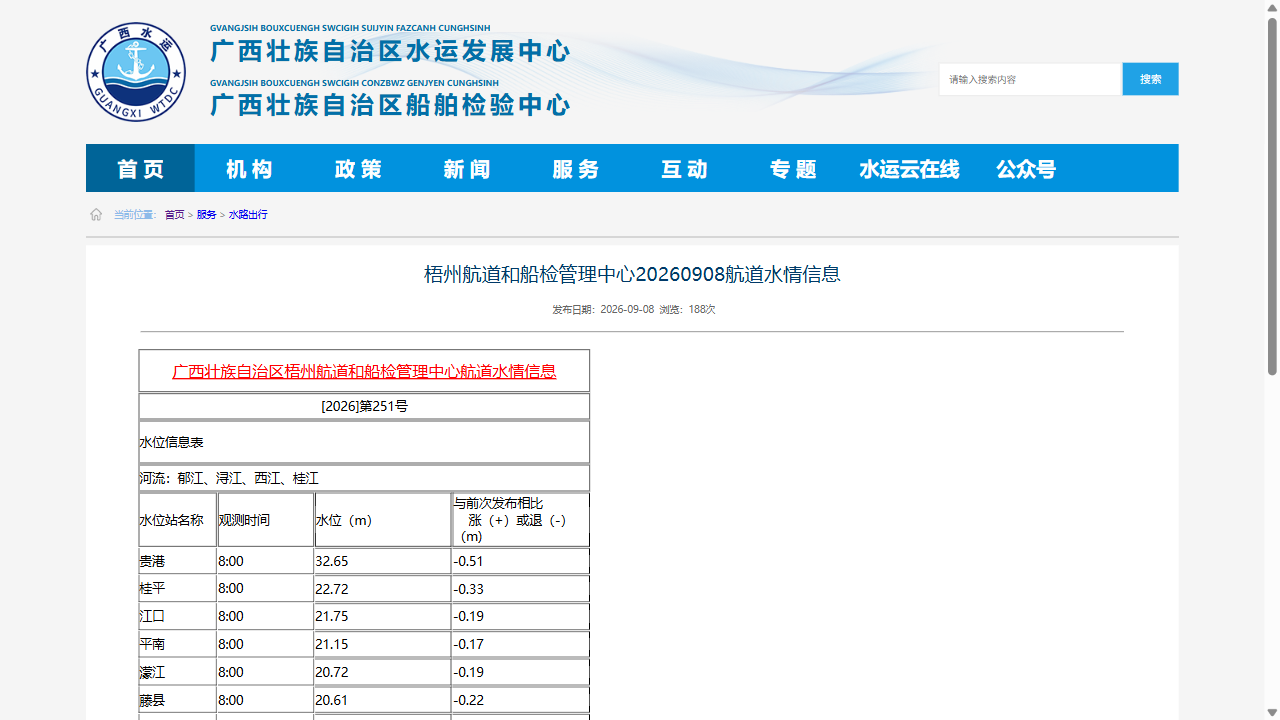
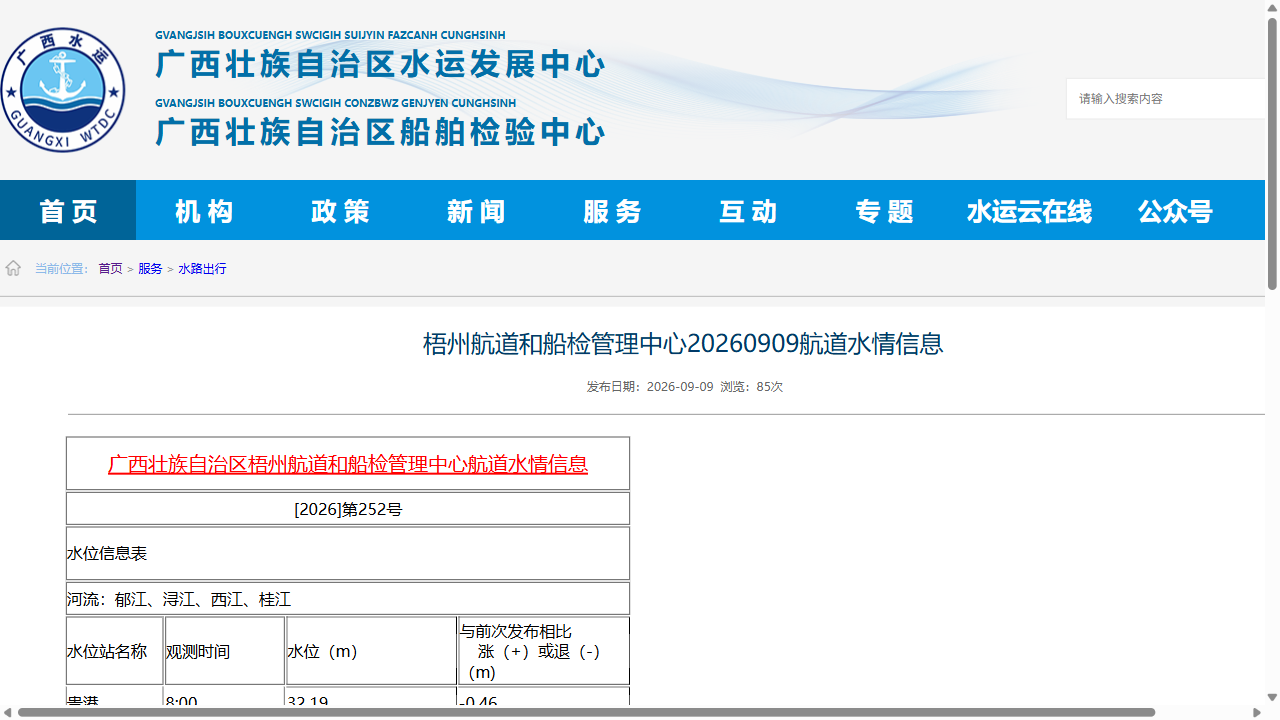
完善枢纽预警信息与警告标识显示 V1.0

diff --git a/water_level_report.html b/water_level_report.html
@@ -168,20 +168,20 @@
         <div class="status-section">
             <div class="status-item">
                 <span class="status-label">上游整体情况：</span>
-                <span class="status-value status-blue">
-                    水位略微下降↘
+                <span class="status-value status-red">
+                    水位略微上升↗↘
                 </span>
             </div>
             <div class="status-item">
                 <span class="status-label">今日梧州水位：</span>
-                <span class="status-value status-red">
-                    5.86m▲
+                <span class="status-value status-blue">
+                    5.54m▼
                 </span>
             </div>
             <div class="status-item">
                 <span class="status-label">近2天梧州水位预报：</span>
                 <span class="status-value status-blue">
-                    5.46m~5.11m 预计水位略微下降↘  
+                    5.33m~5.14m 预计水位略微下降↘  
                 </span>
             </div>
         </div>
@@ -189,7 +189,7 @@
             <div class="status-item">
                 <span class="status-label">🚨水库预警：</span>
                 <span class="warningStatus-value">
-                     大藤峡枢纽、桂平枢纽、长洲枢纽出库流量更大，可能正在放水。请及时注意水位变化，加强船舶调度！
+                     长洲枢纽出库流量更大，可能正在放水。请及时注意水位变化，加强船舶调度！
                 </span>
             </div>
             <div class="status-item">
@@ -201,27 +201,30 @@
         </div>
         
         <div class="image-section">
-            <div class="image-overlay-text wz status-red">5.86m▲</div>
-            <div class="image-overlay-text status-red" style="position: absolute;top: 41.25%;left: 86.7%;">====</div>
-            <div class="image-overlay-text jk status-blue">21.75m▼</div>
+            <div class="image-overlay-text wz status-blue">5.54m▼</div>
+            <div class="image-overlay-text status-blue" style="position: absolute;top: 41.25%;left: 86.7%;">====</div>
+            <div class="image-overlay-text jk status-blue">21.39m▼</div>
             <div class="image-overlay-text status-blue" style="position: absolute; top: 41.4%; left: 64%;">==</div>
-            <div class="image-overlay-text wx status-blue">59.38m▼</div>
-            <div class="image-overlay-text status-blue" style="position: absolute; top: 18.9%; left: 23.2%;">===========</div>
-            <div class="image-overlay-text lb status-blue">59.72m▼</div>
+            <div class="image-overlay-text wx status-red">59.48m▲</div>
+            <div class="image-overlay-text status-red" style="position: absolute; top: 18.9%; left: 23.2%;">===========</div>
+            <div class="image-overlay-text lb status-blue">59.59m▼</div>
             <div class="image-overlay-text status-blue" style="position: absolute; top: 18.9%; left: 4%;">===</div>
-            <div class="image-overlay-text lc status-blue">61.896m▼</div>
-            <div class="image-overlay-text status-blue" style="position: absolute; top: 63.8%; left: 6%;">====</div>
-            <div class="image-overlay-text gg status-blue">32.65m▼</div>
+            <div class="image-overlay-text lc status-red">62.133m▲</div>
+            <div class="image-overlay-text status-red" style="position: absolute; top: 63.8%; left: 6%;">====</div>
+            <div class="image-overlay-text gg status-blue">32.19m▼</div>
             <div class="image-overlay-text status-blue" style="position: absolute; top: 63.8%; left: 28.5%;">============</div>
             <div class="image-overlay-text" style="position: absolute; top: 42.5%; left: 86.5%;font-size:200%"> </div>
             <div class="image-overlay-text" style="position: absolute; top: 42.5%; left: 69.67%;font-size:200%"> </div>
             <div class="image-overlay-text" style="position: absolute; top: 20%; left: 37.9%;font-size:200%"> </div>
-            <div class="image-overlay-text" style="position: absolute;top: 20%;left: 8.6%;font-size:200%"> </div>
+            <div class="image-overlay-text" style="position: absolute; top: 20%; left: 8.6%;font-size:200%"> </div>
             <div class="image-overlay-text" style="position: absolute; top: 65%; left: 12%;font-size:200%"> </div>
             <div class="image-overlay-text" style="position: absolute; top: 65%; left: 45%;font-size:200%"> </div>
-            <div class="image-overlay-text" style="position: absolute; top: 42.5%; left: 86.5%;font-size:200%">🌊</div>
-            <div class="image-overlay-text" style="position: absolute; top: 42.5%; left: 69.67%;font-size:200%">🌊</div>
-            <div class="image-overlay-text" style="position: absolute;top: 43%;left: 79%;font-size: 180%;">🌊</div>
+            <div class="image-overlay-text" style="position: absolute;top: 17%;left: 53.75%;font-size: 180%;writing-mode: vertical-rl;text-orientation: mixed;justify-content: center;align-items: center;display: flex;height: 20%;color:blue"> 正常</div>
+            <div class="image-overlay-text" style="position: absolute; top: 59.9%;left: 56.1%;font-size: 180%;writing-mode: vertical-rl;text-orientation: mixed;justify-content: center;align-items: center;display: flex;height: 20%;color:blue"> 正常</div>
+            <div class="image-overlay-text" style="position: absolute; top: 39%; left: 79%;font-size: 180%;writing-mode: vertical-rl;text-orientation: mixed;justify-content: center;align-items: center;display: flex; height: 20%;color:blue"> 🌊</div>
+            <div class="image-overlay-text status-blue" style="position: absolute;top: -0.5%;left: 53.8%;font-size: 180%;">59.51m</div>
+            <div class="image-overlay-text status-blue" style="position: absolute;top: 88%;left: 56%;font-size: 180%;">31.13m</div>
+            <div class="image-overlay-text status-blue" style="position: absolute;top: 3%;left: 79%;font-size: 180%;">19.46m</div>
             <img src="river.jpg" alt="西江流域图">
         </div>
         
@@ -321,13 +324,23 @@
                         <td>61.896▼</td>
                     </tr>
 
+                    <tr>
+                        <td>2026-09-09 8:00</td>
+                        <td>5.54▼</td>
+                        <td>21.39▼</td>
+                        <td>32.19▼</td>
+                        <td>59.48▲</td>
+                        <td>59.59▼</td>
+                        <td>62.133▲</td>
+                    </tr>
+
                 </tbody>
             </table>
         </div>
         
         <div class="timestamp">
-            报告生成时间: 2026-09-08 17:16:30<br>
-            数据记录数: 8 条
+            报告生成时间: 2026-09-09 10:18:59<br>
+            数据记录数: 9 条
         </div>
     </div>
     
@@ -336,11 +349,11 @@
         new Chart(ctx, {
             type: 'line',
             data: {
-                labels: ["2026-08-31 8:00", "2026-09-01 8:00", "2026-09-02 8:00", "2026-09-03 8:00", "2026-09-04 8:00", "2026-09-06 8:00", "2026-09-07 8:00", "2026-09-08 8:00"],
+                labels: ["2026-08-31 8:00", "2026-09-01 8:00", "2026-09-02 8:00", "2026-09-03 8:00", "2026-09-04 8:00", "2026-09-06 8:00", "2026-09-07 8:00", "2026-09-08 8:00", "2026-09-09 8:00"],
                 datasets: [
                 {
                     label: '梧州',
-                    data: [12.81, 12.72, 11.36, 8.12, 5.42, 6.21, 5.69, 5.86],
+                    data: [12.81, 12.72, 11.36, 8.12, 5.42, 6.21, 5.69, 5.86, 5.54],
                     borderColor: 'rgb(255, 99, 132)',
                     backgroundColor: 'rgb(255, 99, 132)',
                     tension: 0.1,
@@ -348,7 +361,7 @@
                 },
                 {
                     label: '江口',
-                    data: [27.08, 26.32, 24.43, 22.41, 21.67, 22.02, 21.94, 21.75],
+                    data: [27.08, 26.32, 24.43, 22.41, 21.67, 22.02, 21.94, 21.75, 21.39],
                     borderColor: 'rgb(54, 162, 235)',
                     backgroundColor: 'rgb(54, 162, 235)',
                     tension: 0.1,
@@ -356,7 +369,7 @@
                 },
                 {
                     label: '贵港',
-                    data: [44.254, 41.645, 36.88, 33.76, 33.35, 33.37, 33.16, 32.65],
+                    data: [44.254, 41.645, 36.88, 33.76, 33.35, 33.37, 33.16, 32.65, 32.19],
                     borderColor: 'rgb(255, 205, 86)',
                     backgroundColor: 'rgb(255, 205, 86)',
                     tension: 0.1,
@@ -364,7 +377,7 @@
                 },
                 {
                     label: '武宣',
-                    data: [59.09, 59.12, 58.48, 58.93, 59.48, 59.46, 59.5, 59.38],
+                    data: [59.09, 59.12, 58.48, 58.93, 59.48, 59.46, 59.5, 59.38, 59.48],
                     borderColor: 'rgb(75, 192, 192)',
                     backgroundColor: 'rgb(75, 192, 192)',
                     tension: 0.1,
@@ -372,7 +385,7 @@
                 },
                 {
                     label: '来宾',
-                    data: [59.94, 59.39, 59.13, 59.34, 59.57, 59.42, 59.77, 59.72],
+                    data: [59.94, 59.39, 59.13, 59.34, 59.57, 59.42, 59.77, 59.72, 59.59],
                     borderColor: 'rgb(153, 102, 255)',
                     backgroundColor: 'rgb(153, 102, 255)',
                     tension: 0.1,
@@ -380,7 +393,7 @@
                 },
                 {
                     label: '峦城',
-                    data: [64.242, 62.939, 62.306, 62.511, 62.181, 62.113, 62.181, 61.896],
+                    data: [64.242, 62.939, 62.306, 62.511, 62.181, 62.113, 62.181, 61.896, 62.133],
                     borderColor: 'rgb(255, 159, 64)',
                     backgroundColor: 'rgb(255, 159, 64)',
                     tension: 0.1,

diff --git a/screenshot.py b/screenshot.py
@@ -365,11 +365,11 @@ def generate_html_report(data):
         station_warning += '水位超警！'
 
 
-    if float(latest_wuzhou_data) >= 13 and float(latest_wuzhou_data) < 18.5:
+    if float(latest_wuzhou_data) >= 12 and float(latest_wuzhou_data) < 18.5:
         latest_wuzhou_wSymbol = '⚠'
         station_warning += '梧州水位较高，'
 
-    if float(latest_jiangkou_data) >= 27 and float(latest_jiangkou_data) < 31.7:
+    if float(latest_jiangkou_data) >= 26 and float(latest_jiangkou_data) < 31.7:
         latest_jiangkou_wSymbol = '⚠'
         station_warning += '江口水位较高，'
 
@@ -427,41 +427,24 @@ def generate_html_report(data):
     latest_datengxia_wSymbol = ' '
     latest_guiping_wSymbol = ' '
     latest_changzhou_wSymbol = ' '
-    #水库是否需要水位警告符号
-    r1 = 0
-    if float(latest_datengxia_data) >= 60:
-        #<KEY> = '🚨'
-        reservoir_warning += '大藤峡枢纽'
-        r1 = 1
-    if float(latest_guiping_data) >= 31.5:
-        #<KEY> = '🚨'
-        if r1 != 0:
-            reservoir_warning += '、'
-        reservoir_warning += '桂平枢纽'
-        r1 = 1
-    if float(latest_changzhou_data) >= 31:
-        #<KEY> = '🚨'
-        if r1 != 0:
-            reservoir_warning += '、'
-        reservoir_warning += '长洲枢纽'
-        r1 = 1
-    if r1 != 0:
-        reservoir_warning += '水位高，可能开闸放水！'
-
+    latest_datengxia_color = 'blue'
+    latest_guiping_color = 'blue'
+    latest_changzhou_color = 'blue'
+ 
     #水库是否需要开闸预警
     r2 = 0
-    if float(latest_datengxia_fs) == 0:
-        latest_datengxia_wSymbol = '🌊'
+    if float(latest_datengxia_fs) == 1:
+        latest_datengxia_wSymbol += '🌊'
         reservoir_warning += '大藤峡枢纽'
         r2 = 1
     if float(latest_guiping_fs) == 1:
-        latest_guiping_wSymbol = '🌊'
+        latest_guiping_wSymbol += '🌊'
         if r2 != 0:
             reservoir_warning += '、'
         reservoir_warning += '桂平枢纽'
         r2 = 1
     if float(latest_changzhou_fs) == 1:
-        latest_changzhou_wSymbol = '🌊'
+        latest_changzhou_wSymbol += '🌊'
         if r2 != 0:
             reservoir_warning += '、'
         reservoir_warning += '长洲枢纽'
@@ -469,6 +452,39 @@ def generate_html_report(data):
     if r2 != 0:
         reservoir_warning += '出库流量更大，可能正在放水。'
 
+     #水库是否需要水位警告符号
+    r1 = 0
+    if float(latest_datengxia_data) >= 60:
+        latest_datengxia_wSymbol += '🚨'
+        reservoir_warning += '大藤峡枢纽'
+        latest_datengxia_color = 'red'
+        r1 = 1
+    if float(latest_guiping_data) >= 31.5:
+        latest_guiping_wSymbol += '🚨'
+        if r1 != 0:
+            reservoir_warning += '、'
+        reservoir_warning += '桂平枢纽'
+        latest_guiping_color = 'red'
+        r1 = 1
+    if float(latest_changzhou_data) >= 30:
+        latest_changzhou_wSymbol += '🚨'
+        if r1 != 0:
+            reservoir_warning += '、'
+        reservoir_warning += '长洲枢纽'
+        latest_changzhou_color = 'red'
+        r1 = 1
+    if r1 != 0:
+        reservoir_warning += '水位高，可能开闸放水！'
+
+    if latest_datengxia_wSymbol == ' ':
+        latest_datengxia_wSymbol += '正常'
+
+    if latest_guiping_wSymbol == ' ':
+        latest_guiping_wSymbol += '正常'
+
+    if latest_changzhou_wSymbol == ' ':
+        latest_changzhou_wSymbol += '正常'
+    
     if reservoir_warning != ' ':
         reservoir_warning += '请及时注意水位变化，加强船舶调度！'
     
@@ -479,7 +495,7 @@ def generate_html_report(data):
             <div class="status-item">
                 <span class="status-label">上游整体情况：</span>
                 <span class="status-value status-{latest_upstream_color}">
-                    水位{latest_upstream_des}{latest_upstream_desc}{latest_upstream_Symbol}
+                    水位{latest_upstream_des}{latest_upstream_desc}
                 </span>
             </div>
             <div class="status-item">
@@ -529,9 +545,12 @@ def generate_html_report(data):
             <div class="image-overlay-text" style="position: absolute; top: 20%; left: 8.6%;font-size:200%">{latest_laibing_wSymbol}</div>
             <div class="image-overlay-text" style="position: absolute; top: 65%; left: 12%;font-size:200%">{latest_luancheng_wSymbol}</div>
             <div class="image-overlay-text" style="position: absolute; top: 65%; left: 45%;font-size:200%">{latest_guigang_wSymbol}</div>
-            <div class="image-overlay-text" style="position: absolute; top: 42.5%; left: 86.5%;font-size:180%;writing-mode: vertical-rl;text-orientation: mixed">{latest_datengxia_wSymbol}</div>
-            <div class="image-overlay-text" style="position: absolute; top: 42.5%; left: 69.67%;font-size:180%;writing-mode: vertical-rl;text-orientation: mixed">{latest_guiping_wSymbol}</div>
-            <div class="image-overlay-text" style="position: absolute; top: 43%; left: 79%;font-size: 180%;writing-mode: vertical-rl;text-orientation: mixed">{latest_changzhou_wSymbol}</div>
+            <div class="image-overlay-text" style="position: absolute;top: 17%;left: 53.75%;font-size: 180%;writing-mode: vertical-rl;text-orientation: mixed;justify-content: center;align-items: center;display: flex;height: 20%;color:blue">{latest_datengxia_wSymbol}</div>
+            <div class="image-overlay-text" style="position: absolute; top: 59.9%;left: 56.1%;font-size: 180%;writing-mode: vertical-rl;text-orientation: mixed;justify-content: center;align-items: center;display: flex;height: 20%;color:blue">{latest_guiping_wSymbol}</div>
+            <div class="image-overlay-text" style="position: absolute; top: 39%; left: 79%;font-size: 180%;writing-mode: vertical-rl;text-orientation: mixed;justify-content: center;align-items: center;display: flex; height: 20%;color:blue">{latest_changzhou_wSymbol}</div>
+            <div class="image-overlay-text status-{latest_datengxia_color}" style="position: absolute;top: -0.5%;left: 53.8%;font-size: 180%;">{latest_datengxia_data}m</div>
+            <div class="image-overlay-text status-{latest_guiping_color}" style="position: absolute;top: 88%;left: 56%;font-size: 180%;">{latest_guiping_data}m</div>
+            <div class="image-overlay-text status-{latest_changzhou_color}" style="position: absolute;top: 3%;left: 79%;font-size: 180%;">{latest_changzhou_data}m</div>
             <img src="river.jpg" alt="西江流域图">
         </div>
         
@@ -939,19 +958,19 @@ def main():
             
             # 根据上游变化和值决定整体情况
             if upstream_change_sum == 0:
-                upstream_status = "下降"
+                upstream_status = "下降⏬"
                 upstream_color = "blue"
             elif upstream_change_sum == 1:
-                upstream_status = "下降"
+                upstream_status = "下降▼"
                 upstream_color = "blue"
             elif upstream_change_sum == 2:
-                upstream_status = "上升"
+                upstream_status = "上升↗"
                 upstream_color = "red"
             elif upstream_change_sum == 3:
-                upstream_status = "上升"
+                upstream_status = "上升▲"
                 upstream_color = "red"
             else:  # 4或5
-                upstream_status = "上升"
+                upstream_status = "上升⏫"
                 upstream_color = "red"
             
             record_data = {

diff --git a/README.md b/README.md
@@ -8,12 +8,15 @@
 **2.** 存储每日的航道水位数据到本地，可持久存储。  
 **3.** 将爬取到的航道水位数据可视化展示，并做分析，初步预判近日梧州航道水位变化情况。
 
+## 使用说明
+
 ## 注意事项
 
 - **在每天上午10点之后运行，以避免数据爬取不全的情况。**
 - **一天内，如果已经更新了当天的数据，不需要再次运行。**
 - **可视化报告在程序同文件夹内，文件名为water_level_report.html。**
 - **为达到最佳展示效果，请将浏览器窗口扩展至全屏查看可视化报告。**
+- **数据缺失问题；数据源链接为https://www.gxghj.cn/c/fw/slcx。打开后看到的前4条链接中，只要缺少南宁、柳州、梧州的3个航道水情信息的任意一个链接，就会影响数据爬取，导致数据缺少。**
 
 ## 本地部署
 
